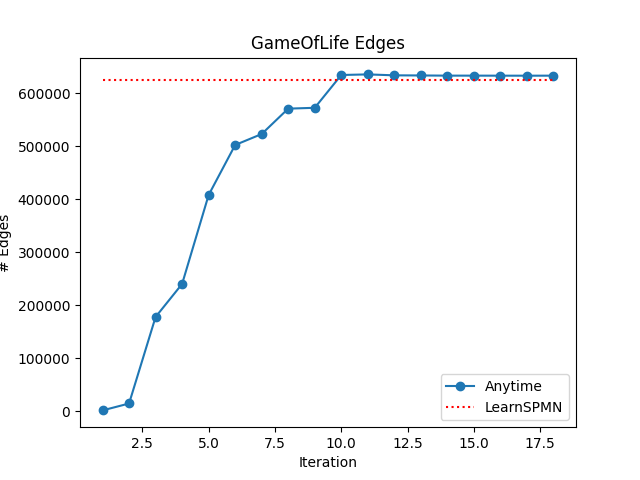
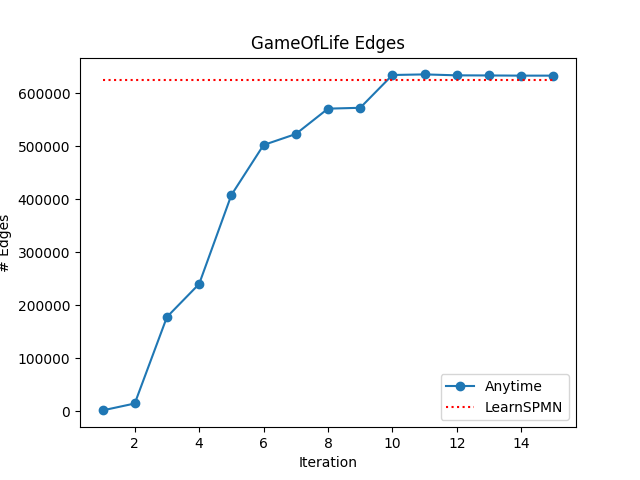
CrossingTraffic

diff --git a/src/plot.py b/src/plot.py
@@ -27,15 +27,15 @@ path = "new_results_depth1"
 
 plot_path = f"{path}/{dataset}"
 
-runtime = [152.5618634223938, 752.8968393802643, 3778.9327857494354, 5492.052267074585, 9348.144783735275, 12224.432264566422, 13196.357997894287, 14114.30926990509, 14051.375816106796, 15170.068479061127, 15279.90201663971, 15503.499443531036, 15483.576924562454, 15515.465003490448, 15589.440560340881, 15650.978976726532, 15691.12542295456, 15593.127679109573]
-avg_ll = [-10.853872823727759, -10.966744863853283, -8.403255377986866, -8.267961821772527, -6.943724413973098, -5.983020631214568, -5.8859795001001265, -5.146443214290348, -5.112322679251555, -4.626295210955778, -4.6522117494988855, -4.663144855047961, -4.635588395486958, -4.630584907877058, -4.631948083465982, -4.635653360382708, -4.640366042380167, -4.630280288981273]
-ll_dev= [0.18449233769708268, 0.2588791078811392, 0.2915910361391348, 0.2552993504069091, 0.2025085427481468, 0.1250056661790957, 0.14439783769741152, 0.2581449405276246, 0.266010639161589, 0.2583059104608148, 0.25988660855080575, 0.2492470895382542, 0.24874832178756212, 0.24496720762962396, 0.25242020788056896, 0.24168600317186748, 0.24558935411658206, 0.2485291361574375]
-meus = [77.420539264374, 103.95818818414463, 86.99235833541321, 84.05180702707186, 77.91300167805147, 80.17449749361604, 83.64804323267263, 85.95626580090102, 85.956265800901, 85.30956279842715, 85.20554813803666, 85.18909897894765, 85.18909897894767, 85.18909897894768, 85.18909897894765, 85.18909897894765, 85.18909897894767, 85.18897362751599]
-nodes = [1378, 14504, 187264, 254698, 437152, 540562, 563413, 615900, 617588, 685351, 686571, 684710, 684457, 684110, 684121, 684033, 684008, 684080]
-edges = [1291, 14314, 177620, 239929, 407713, 502078, 522758, 570655, 572255, 634129, 635263, 633501, 633261, 632926, 632936, 632852, 632829, 632896]
-layers = [18, 21, 34, 37, 41, 39, 38, 40, 43, 39, 41, 39, 39, 39, 39, 39, 39, 39]
-avg_rewards = [9.6004, 10.145599999999998, 9.25, 9.802, 10.286, 10.034, 9.38, 10.66, 10.664, 10.663999999999998, 10.664, 10.664, 10.663999999999998, 10.668]
-reward_dev = [0.15122645271248045, 0.09533435896884153, 0.2830547650190688, 0.23181026724457227, 0.11774548823628031, 0.24385241438214186, 0.28955137713366197, 0.35349681752457124, 0.35617972991173985, 0.3819738210924932, 0.37754999668918043, 0.3590877330124213, 0.3819738210924932, 0.3876286883087994]
+runtime = [152.5618634223938, 752.8968393802643, 3778.9327857494354, 5492.052267074585, 9348.144783735275, 12224.432264566422, 13196.357997894287, 14114.30926990509, 14051.375816106796, 15170.068479061127, 15279.90201663971, 15503.499443531036, 15483.576924562454, 15515.465003490448, 15589.440560340881]
+avg_ll = [-10.853872823727759, -10.966744863853283, -8.403255377986866, -8.267961821772527, -6.943724413973098, -5.983020631214568, -5.8859795001001265, -5.146443214290348, -5.112322679251555, -4.626295210955778, -4.6522117494988855, -4.663144855047961, -4.635588395486958, -4.630584907877058, -4.631948083465982]
+ll_dev= [0.18449233769708268, 0.2588791078811392, 0.2915910361391348, 0.2552993504069091, 0.2025085427481468, 0.1250056661790957, 0.14439783769741152, 0.2581449405276246, 0.266010639161589, 0.2583059104608148, 0.25988660855080575, 0.2492470895382542, 0.24874832178756212, 0.24496720762962396, 0.25242020788056896]
+meus = [77.420539264374, 103.95818818414463, 86.99235833541321, 84.05180702707186, 77.91300167805147, 80.17449749361604, 83.64804323267263, 85.95626580090102, 85.956265800901, 85.30956279842715, 85.20554813803666, 85.18909897894765, 85.18909897894767, 85.18909897894768, 85.18909897894765]
+nodes = [1378, 14504, 187264, 254698, 437152, 540562, 563413, 615900, 617588, 685351, 686571, 684710, 684457, 684110, 684121]
+edges = [1291, 14314, 177620, 239929, 407713, 502078, 522758, 570655, 572255, 634129, 635263, 633501, 633261, 632926, 632936]
+layers = [18, 21, 34, 37, 41, 39, 38, 40, 43, 39, 41, 39, 39, 39, 39]
+avg_rewards = [9.6004, 10.145599999999998, 9.25, 9.802, 10.286, 10.034, 9.38, 10.66, 10.664, 10.663999999999998, 10.664, 10.664, 10.663999999999998, 10.668, 10.663999999999998]
+reward_dev = [0.15122645271248045, 0.09533435896884153, 0.2830547650190688, 0.23181026724457227, 0.11774548823628031, 0.24385241438214186, 0.28955137713366197, 0.35349681752457124, 0.35617972991173985, 0.3819738210924932, 0.37754999668918043, 0.3590877330124213, 0.3819738210924932, 0.3876286883087994, 0.3819738210924932]
 
 
 

diff --git a/src/spn/data/domain_stats.py b/src/spn/data/domain_stats.py
@@ -23,7 +23,8 @@ optimal_meu = {
 	'LungCancer_Staging': 3.12453,
 	'Navigation': -4.046906,
 	'Elevators': 0.5,
-	'CrossingTraffic': -2.92106,
+	'CrossingTraffic': -4.2999,
+	'CrossingTraffic1': -2.92106,
 	'SkillTeaching': -7.180539,
 	'GameOfLife': 11.567616 #10.808452,
 }
@@ -37,7 +38,8 @@ random_reward = {
 	'Test_Strep': {'reward': 54.89614493400057, 'dev':0.012847272731391593},
 	'LungCancer_Staging': {'reward': 2.672070640000026, 'dev':0.007416967451081523},
 	'Navigation': {'reward': -4.972862, 'dev':0.00189885649800079},
-	'CrossingTraffic': {'reward': -4.779254, 'dev':0.005551430806557858},
+	'CrossingTraffic': {'reward': -4.984152, 'dev':0.0007056174601014786},
+	'CrossingTraffic1': {'reward': -4.779254, 'dev':0.005551430806557858},
 	'Elevators': {'reward': -6.129405499999999 , 'dev':0.006561652878657956},
 	'GameOfLife': {'reward': 9.671382000000001 , 'dev':0.02171178887148651},
 	'SysAdmin': {'reward': 12.110048999999998 , 'dev':0.02391732450547092},
